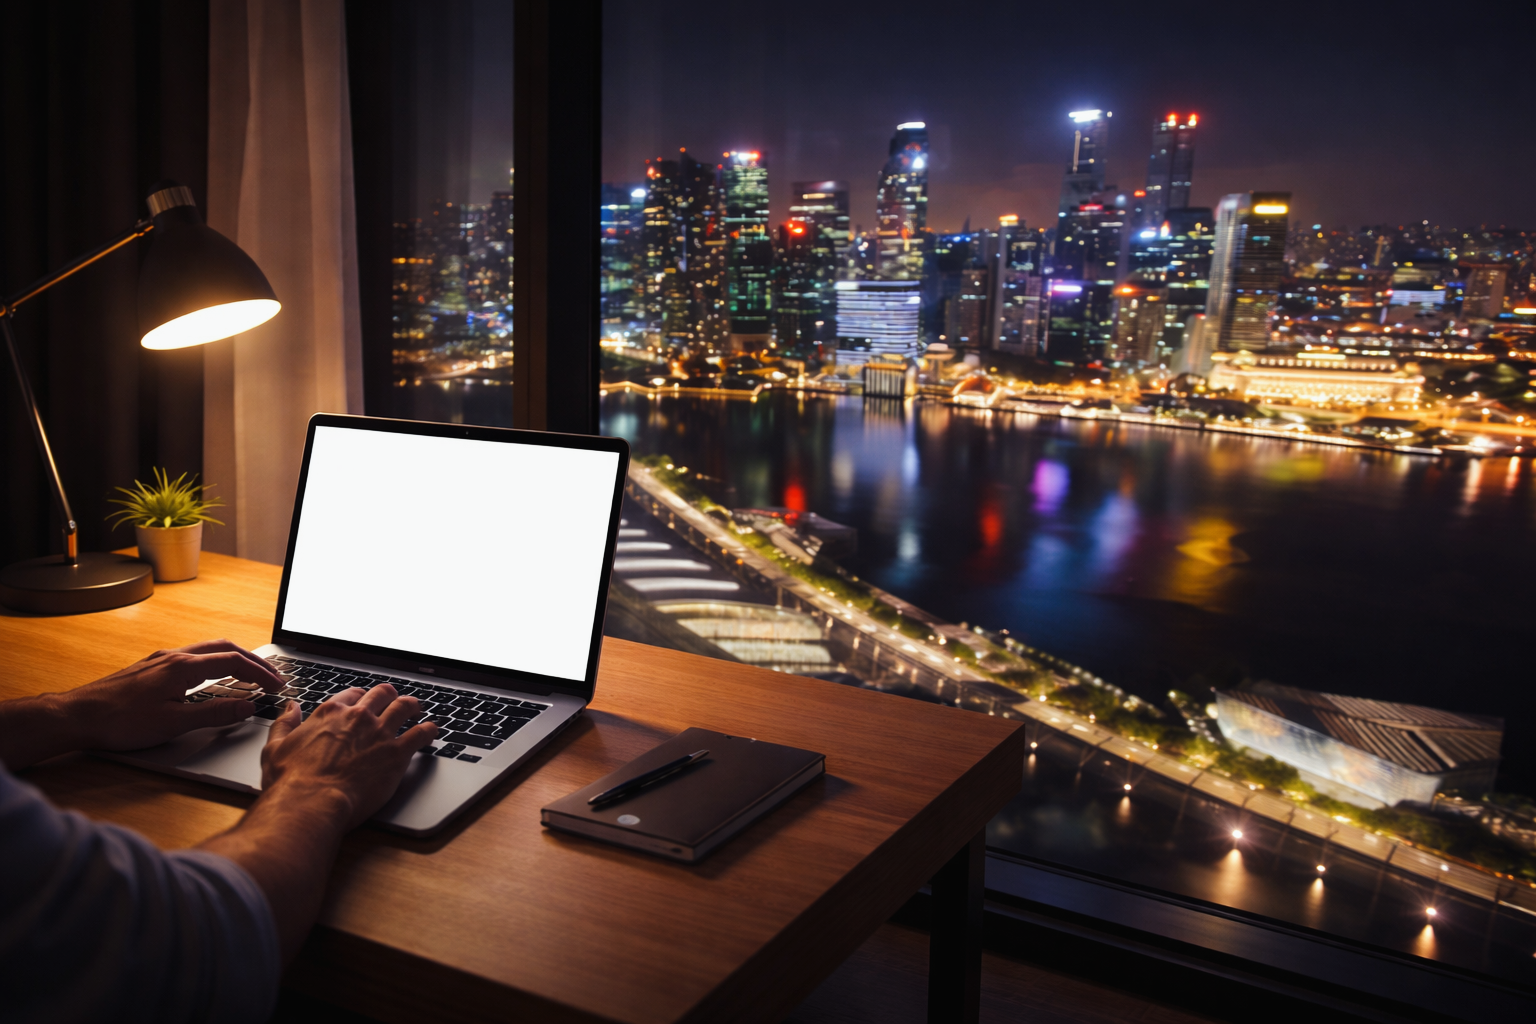
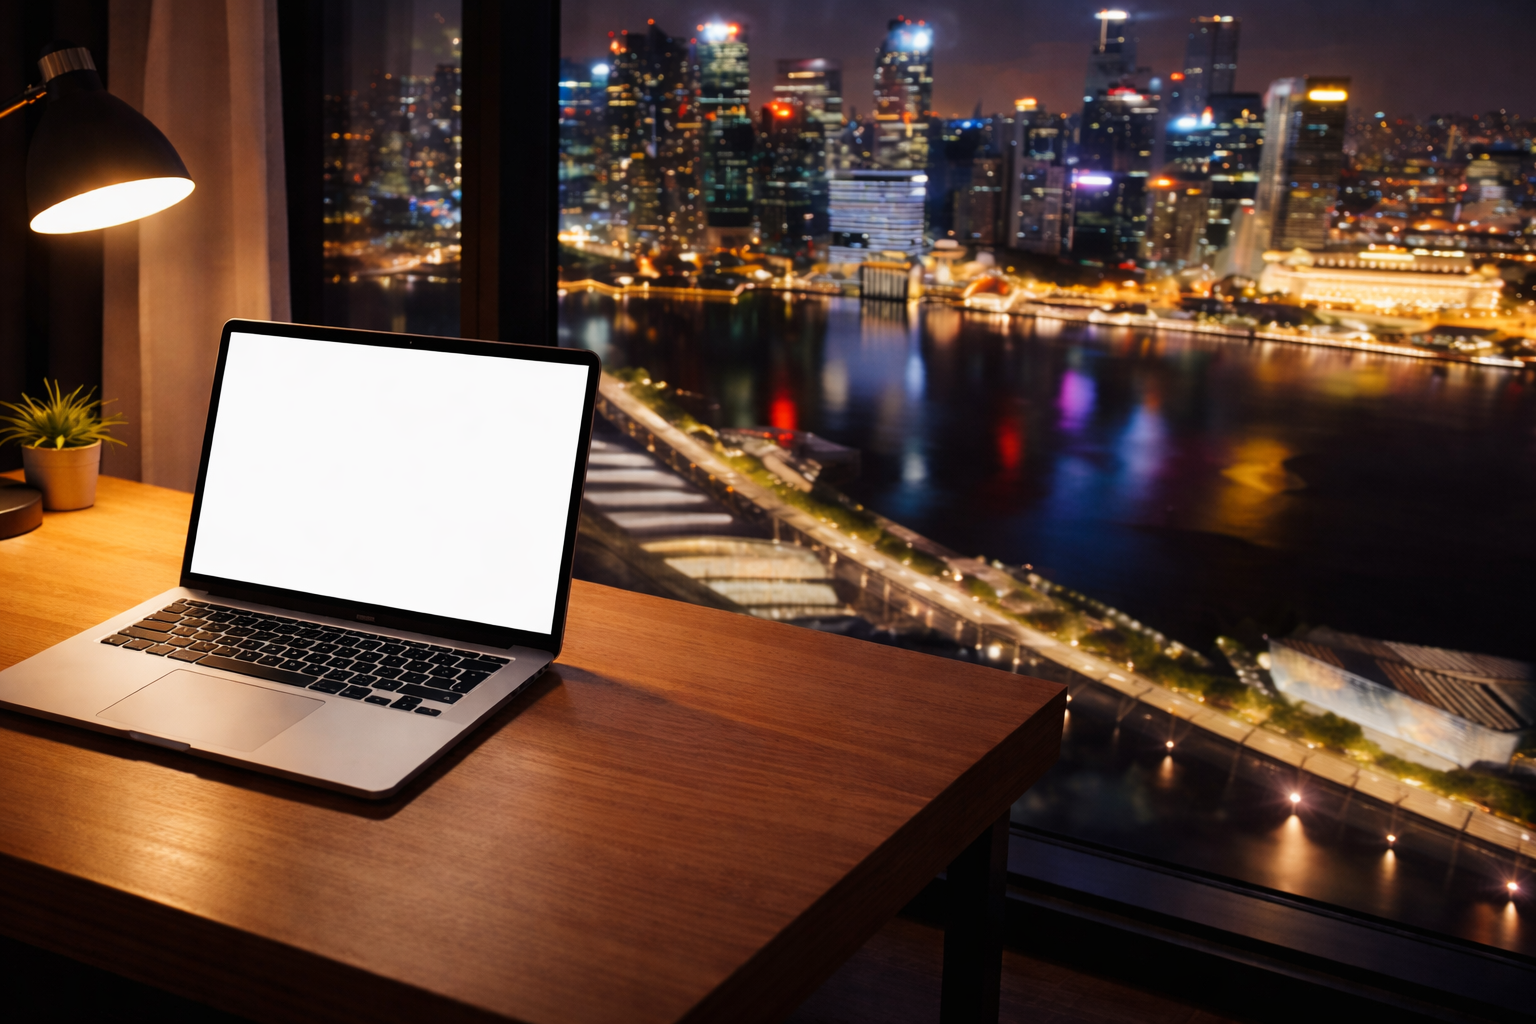
laptop screen work, projects list and links

diff --git a/app/page.tsx b/app/page.tsx
@@ -5,6 +5,8 @@ import ThreeDCardHolder from "./components/3dCardHolder";
 import Projects from "./components/Projects";
 import Modal from "./components/Modal";
 import Footer from "./components/Footer";
+import LaptopScreen from "./components/laptopScreen";
+import CloneProjects from "./components/CloneProjects";
 
 export default function Home() {
   const [isModalOpen, setIsModalOpen] = useState(false);
@@ -12,87 +14,82 @@ export default function Home() {
 
   const toggleModal = () => setIsModalOpen(!isModalOpen);
   const toggleContrast = () => {
-    setContrastToggle(!contrastToggle);
+    setContrastToggle(contrastToggle);
     document.body.classList.toggle("dark");
   };
 
   return (
     <>
-      <main
-        className="
-          max-w-full
-          w-full
-          min-h-screen
-          bg-[url('/assets/desk-bg.png')]
-          bg-cover
-          bg-center
-          bg-no-repeat
-          bg-fixed
-        "
-      >
-        <div className="max-w-[1400px] mx-auto w-full relative">
-          {/* Landing Section */}
-          <section
-            id="landing-page"
-            className="w-full flex flex-col items-center pt-32 md:pt-40"
-          >
+      <main className="max-w-[1400px] mx-auto px-4 min-h-screen">
+        {/* Landing Section with Background */}
+        <section
+          id="landing-page"
+          className="
+            w-full h-screen relative
+            bg-[url('/assets/desk-bg.png')]
+            bg-center
+            bg-no-repeat
+            bg-contain
+          "
+        >
+          <div className="relative h-full flex flex-col items-center">
             <Navbar toggleModal={toggleModal} toggleContrast={toggleContrast} />
-            <div className="w-full max-w-5xl mx-auto h-[400px] md:h-[500px] z-20 fixed top-72 left-50 flex justify-center items-center">
+
+            {/* 3D Card Holder */}
+            <div className="absolute top-3/4 left-[47%] transform -translate-x-1/2 -translate-y-1/2 w-full max-w-4xl h-[400px] md:h-[500px] z-20 flex justify-center items-center">
               <ThreeDCardHolder />
             </div>
 
-            {/* Header positioned over laptop screen */}
-            <div className="fixed top-[35%] md:top-[25%] left-[70%] transform -translate-x-1/2 z-0 text-center max-w-3xl">
-              <h1 className="text-4xl md:text-6xl font-bold leading-tight text-black dark:text-white">
-                Hello!
-              </h1>
-              <h1 className="text-4xl md:text-6xl font-bold leading-tight text-blue-500 mt-2">
-                I'm Ryan.
-              </h1>
-              <p className="mt-4 text-base md:text-lg text-gray-700 dark:text-gray-300 max-w-1/3 mx-auto wrap-break-word">
-                I am a{" "}
-                <b className="text-blue-500">
-                  Frontend Simplified software student
-                </b>
-                . Looking forward to an exciting career in software development.
-                <br />
-                More{" "}
-                <b
-                  className="text-blue-500 cursor-pointer"
-                  onClick={toggleModal}
-                >
-                  About Me
-                </b>
-                .
-              </p>
-            </div>
-
-            {/* Scroll Indicator */}
-            <div className="absolute bottom-12 left-1/2 transform -translate-x-1/2 z-100 flex justify-center w-full">
-              <a href="#projects">
-                <div className="w-6 h-6 border-b-2 border-r-2 border-gray-700 dark:border-white rotate-45 animate-bounce"></div>
-              </a>
-            </div>
-          </section>
-
-         
-        <section
-          // id="projects"
-          // className="w-full py-16 md:py-24 bg-transparent transition-colors duration-300"
-        >
-          {/* <div className="">
-            <Projects />
-          </div> */}
+            {/* Laptop Screen Overlay */}
+            <LaptopScreen
+              textLines={[
+                "Hello!",
+                "I'm Ryan.",
+                "I am a Frontend software developer, excited about turning ideas into polished, interactive software.",
+              ]}
+              className="
+                absolute 
+                md:top-[31%] 
+                left-[50%] md:left-[23.3%] 
+                w-[244px] lg:w-[247px] 
+                h-[180px] lg:h-[180px] 
+                transform rotate-[7deg]
+                origin-top-left
+              "
+              style={{
+                transform: `rotate(7deg) scale(${Math.min(1, window.innerWidth / 1920)})`,
+              }}
+            />
+          </div>
         </section>
 
-          {/* Modal */}
-          <Modal isOpen={isModalOpen} toggleModal={toggleModal} />
+        {/* Projects Section */}
+        <section
+          id="projects"
+          className="w-full py-16 md:py-5 bg-white dark:bg-gray-900 transition-colors duration-300"
+        >
+          <div className="w-full max-w-[1400px] mx-auto px-4">
+            <Projects />
+          </div>
+        </section>
+        <section
+          id="Clone projects"
+          className="w-full py-16 md:py-5 bg-white dark:bg-gray-900 transition-colors duration-300"
+        >
+          <div className="w-full max-w-[1400px] mx-auto px-4">
+            <CloneProjects/>
+          </div>
+        </section>
 
-          {/* Footer */}
-          {/* <footer className="w-full">
-          <Footer />
-        </footer> */}
-        </div>
+        {/* Footer */}
+        <footer className="w-full bg-gray-100 dark:bg-gray-900">
+          <div className="w-full max-w-[1400px] mx-auto px-4">
+            <Footer />
+          </div>
+        </footer>
+
+        {/* Modal */}
+        <Modal isOpen={isModalOpen} toggleModal={toggleModal} />
       </main>
     </>
   );

diff --git a/app/components/laptopScreen.tsx b/app/components/laptopScreen.tsx
@@ -1,0 +1,74 @@
+"use client";
+import { useState, useEffect } from "react";
+
+interface LaptopScreenProps {
+  textLines: string[];
+  className?: string;
+   style?: React.CSSProperties;
+}
+
+const LaptopScreen: React.FC<LaptopScreenProps> = ({ textLines, className }) => {
+  const [displayedText, setDisplayedText] = useState<string[]>([]);
+  const [lineIndex, setLineIndex] = useState(0);
+  const [charIndex, setCharIndex] = useState(0);
+
+  useEffect(() => {
+    if (lineIndex < textLines.length) {
+      const line = textLines[lineIndex];
+      if (charIndex < line.length) {
+        const timeout = setTimeout(() => {
+          if (!displayedText[lineIndex]) {
+            setDisplayedText((prev) => [...prev, line[charIndex]]);
+          } else {
+            setDisplayedText((prev) => {
+              const newText = [...prev];
+              newText[lineIndex] += line[charIndex];
+              return newText;
+            });
+          }
+          setCharIndex(charIndex + 1);
+        }, 50);
+        return () => clearTimeout(timeout);
+      } else {
+        setLineIndex(lineIndex + 1);
+        setCharIndex(0);
+      }
+    }
+  }, [charIndex, lineIndex, textLines, displayedText]);
+
+  // Function to highlight "Frontend software developer" in blue
+  const renderLine = (line: string) => {
+    const highlight = "Frontend software developer";
+    if (line.includes(highlight)) {
+      const parts = line.split(highlight);
+      return (
+        <>
+          {parts[0]}
+          <span className="text-blue-500 font-bold">{highlight}</span>
+          {parts[1]}
+        </>
+      );
+    }
+    return line;
+  };
+
+  return (
+    <div
+      className={`
+        bg-black bg-opacity-80 backdrop-blur-md p-4 shadow-lg border border-gray-700
+        text-white font-mono text-sm sm:text-base md:text-sm space-y-2
+        ${className}
+      `}
+      style={{
+        transform: "rotate(8deg)",
+        clipPath: "polygon(2% 6%, 100% 0%, 100% 100%, 0% 96%)", 
+      }}
+    >
+      {displayedText.map((line, idx) => (
+        <p key={idx}>{renderLine(line)}</p>
+      ))}
+    </div>
+  );
+};
+
+export default LaptopScreen;

diff --git a/app/components/ProjectCard.tsx b/app/components/ProjectCard.tsx
@@ -5,26 +5,29 @@ interface ProjectCardProps {
   title: string;
   tech: string;
   imgSrc: string;
+  link?: string; // optional link
 }
 
-const ProjectCard: React.FC<ProjectCardProps> = ({ title, tech, imgSrc }) => {
-  return (
-    <div className="relative group overflow-hidden rounded-lg shadow-lg">
-      <img
-        src={imgSrc}
-        alt={title}
-        className="w-full h-64 object-cover group-hover:scale-105 transition-transform duration-300"
-      />
-      <div className="absolute inset-0 bg-black bg-opacity-30 opacity-0 group-hover:opacity-100 transition-opacity duration-300 flex flex-col justify-end p-4 text-white">
-        <h3 className="font-bold text-lg">{title}</h3>
-        <p className="text-sm">{tech}</p>
-        <div className="flex gap-2 mt-2">
-          <a href="#" className="hover:text-blue-500"><i className="fab fa-github"></i></a>
-          <a href="#" className="hover:text-blue-500"><i className="fab fa-linkedin"></i></a>
-        </div>
+const ProjectCard: React.FC<ProjectCardProps> = ({ title, tech, imgSrc, link }) => {
+  const cardContent = (
+    <div className="bg-white dark:bg-gray-800 rounded-lg shadow-lg overflow-hidden hover:scale-105 transform transition-transform duration-300 cursor-pointer">
+      <img src={imgSrc} alt={title} className="w-full h-48 object-cover" />
+      <div className="p-4">
+        <h2 className="text-xl font-bold text-gray-900 dark:text-white">{title}</h2>
+        <p className="text-gray-700 dark:text-gray-300">{tech}</p>
       </div>
     </div>
   );
+
+  if (link) {
+    return (
+      <a href={link} target="_blank" rel="noopener noreferrer" className="block">
+        {cardContent}
+      </a>
+    );
+  }
+
+  return cardContent;
 };
 
 export default ProjectCard;

diff --git a/app/components/CloneProjects.tsx b/app/components/CloneProjects.tsx
@@ -4,13 +4,13 @@ import ProjectCard from "./ProjectCard";
 
 const projectList = [
   {
-    title: "Skinstric Internship",
+    title: "Mac book pro clone ",
     tech: "HTML, CSS, JavaScript",
-    imgSrc: "/assets/Skinstric.png",
+    imgSrc: "/assets/MacBook.png",
     link: "https://skinstric-internship-eta.vercel.app/",
   },
   {
-    title: "Summarist library",
+    title: "Netflix clone",
     tech: "React, Tailwind",
     imgSrc: "/assets/Summarist.png",
     link: "https://ryan-advanced-virtual-internship.vercel.app/",
@@ -23,7 +23,7 @@ const projectList = [
   },
 ];
 
-const Projects: React.FC = () => {
+const CloneProjects: React.FC = () => {
   return (
     <section
       id="projects"
@@ -31,7 +31,7 @@ const Projects: React.FC = () => {
     >
       <div className="max-w-[1400px] mx-auto px-4">
         <h1 className="text-3xl md:text-4xl font-bold mb-8 text-gray-900 dark:text-white">
-          Here are some of my <span className="text-blue-500">projects</span>
+          Here are some of my <span className="text-blue-500">cloned projects</span>
         </h1>
         <div className="grid grid-cols-1 sm:grid-cols-2 md:grid-cols-3 gap-8">
           {projectList.map((project, i) => (
@@ -43,4 +43,4 @@ const Projects: React.FC = () => {
   );
 };
 
-export default Projects;
+export default CloneProjects;

diff --git a/app/components/3dCardHolder.jsx b/app/components/3dCardHolder.jsx
@@ -275,7 +275,7 @@ function BoxGroup({
     }
 
     /* ---------- Hover zoom  ---------- */
-    const targetScale = hovered ? 1.5 : 1;
+    const targetScale = hovered ? 1.5 : .65;
     const s = groupRef.current.scale.x;
     const nextScale = s + (targetScale - s) * 0.05;
 
@@ -372,7 +372,7 @@ export default function BusinessCardHolder() {
   const controlsRef = useRef();
   const lidRef = useRef();
 
-  const width = 1.8;
+  const width = 1.7;
   const depth = 1;
   const height = 0.25;
   const wallThickness = 0.05;
@@ -390,7 +390,7 @@ export default function BusinessCardHolder() {
 
   // Auto-open box after 2s
   useEffect(() => {
-    const timer = setTimeout(() => setOpen(true), 4000);
+    const timer = setTimeout(() => setOpen(true), 3000);
     return () => clearTimeout(timer);
   }, []);
 

diff --git a/app/components/Navbar.tsx b/app/components/Navbar.tsx
@@ -28,11 +28,11 @@ const Navbar: React.FC<NavbarProps> = ({ toggleModal, toggleContrast }) => {
         {/* Desktop Menu */}
         <div className="flex w-full justify-end">
           <div className="flex gap-2 shrink-0">
-            <NavButton onClick={toggleModal}>About</NavButton>
+            <NavButton onClick={toggleModal}>Resume</NavButton>
             <NavButton onClick={() => console.log("Projects clicked")}>
               Projects
             </NavButton>
-            <NavButton onClick={toggleModal}>Contacts</NavButton>
+            <NavButton onClick={toggleModal}>Contact</NavButton>
             <NavButton onClick={toggleContrast} variant="icon">
               <i className="fa-solid fa-circle-half-stroke text-2xl"></i>
             </NavButton>
